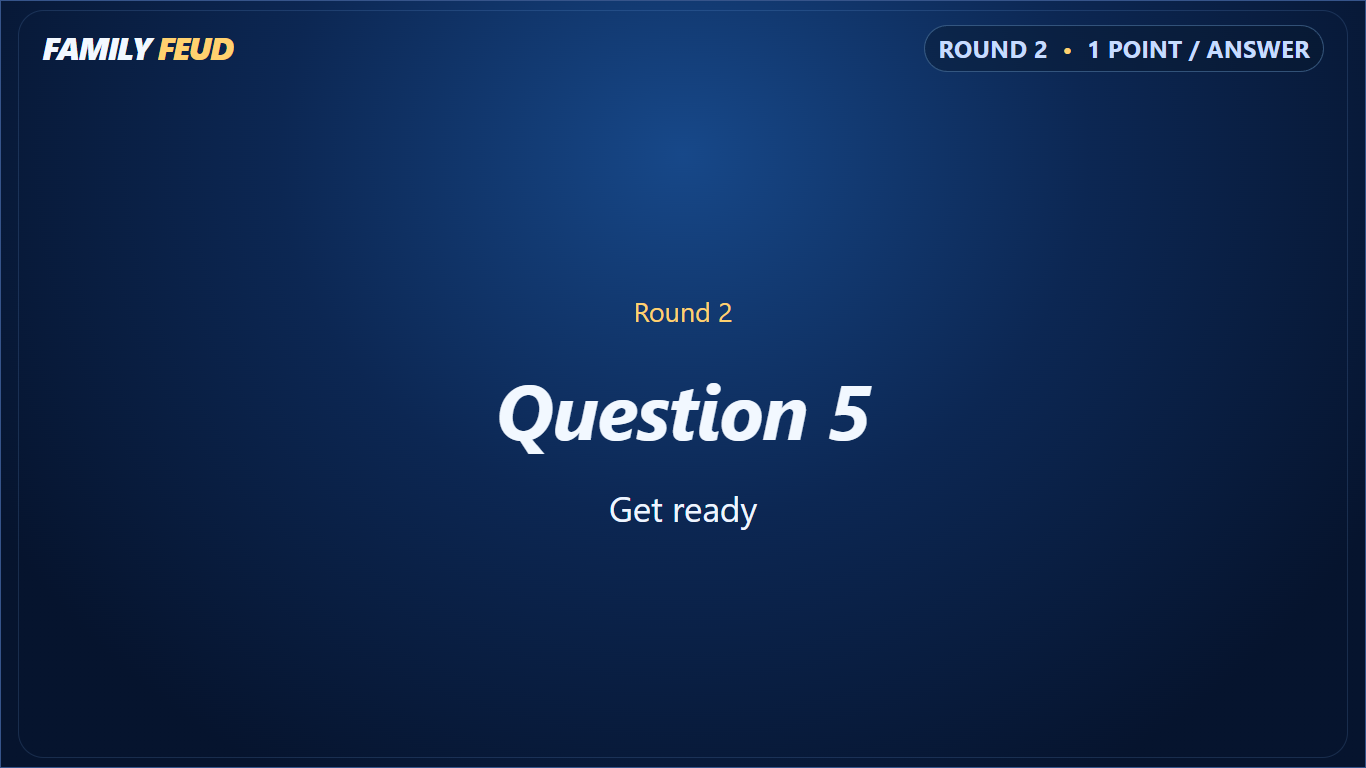
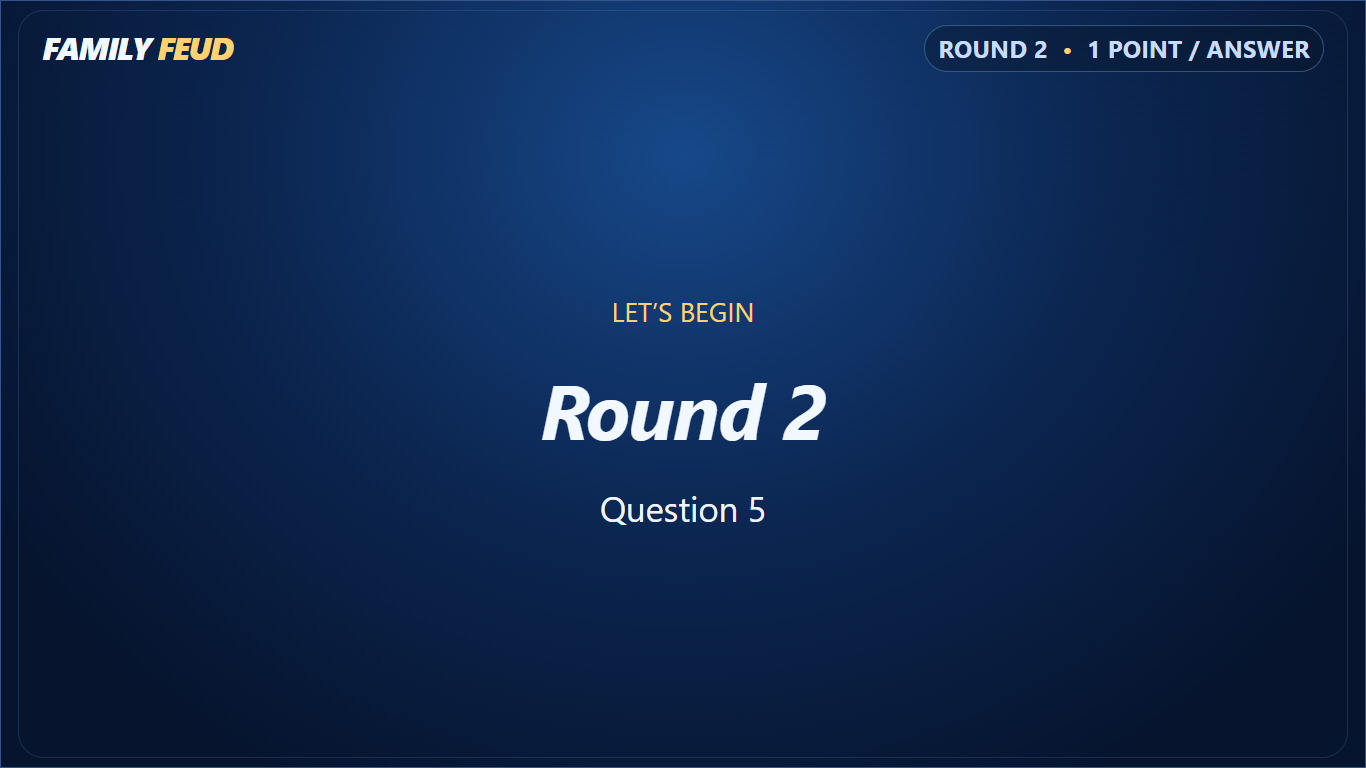
Keep finale strike controls reachable and add named round transitions

Changed region(s): [[0.3382, 0.5, 0.6457, 0.5938], [0.4612, 0.375, 0.5534, 0.4375], [0.4305, 0.625, 0.5534, 0.6875]]

diff --git a/src/Presenter.tsx b/src/Presenter.tsx
@@ -17,15 +17,16 @@ export function Presenter({session,now}:{session:Session;now:number}){
   const startFinale=(teamIndex=0,questionIndex=0)=>{const sheet=scoreSheet();const lineup=finalistIds(session,sheet);const team=sheet.teams.find(t=>t.id===lineup[teamIndex]);if(!team){showStandings('final');return;}setFinaleOpen(true);dispatch({type:'finalists',sheetId:sheet.id,teamIds:lineup});if(!sheet.liveFinale)for(const t of sheet.teams)dispatch({type:'finalePoints',sheetId:sheet.id,teamId:t.id,teamName:t.name,points:t.bonus??0});saveJSON('feud.scores.draft.v1',{...sheet,liveFinale:true});dispatch({type:'prepareFinale',sheetId:sheet.id,teamId:team.id,teamName:team.name,questionId:finaleQuestions[questionIndex%finaleQuestions.length].id});};
   const nextShow=()=>{if(!turn&&session.roundCard){dispatch({type:'roundCard'});return;}if(turn){const sheet=scoreSheet();const lineup=finalistIds(session,sheet);const index=lineup.indexOf(turn.teamId);if(turn.status!=='ended')dispatch({type:'collect'});startFinale(index+1,finaleQuestions.findIndex(q=>q.id===turn.questionId)+1);}else if(session.index===Math.ceil(list.length/2)-1)showStandings('halfway');else if(session.index===list.length-1)showStandings('beforeFinale');else dispatch({type:'navigate',delta:1});};
   const continueShow=()=>{const stage=session.scoreShow?.stage;dispatch({type:'closeScores'});if(stage==='halfway')dispatch({type:'jump',index:Math.ceil(list.length/2)});else if(stage==='beforeFinale')startFinale();};
-  return <main className="presenter"><div className="page-heading"><div><h1>Host desk</h1><p>{session.game.title} <span className="save-state">· Progress saved on this browser</span></p></div><div className="heading-actions"><span className={`connection ${audienceConnected()?'connected':''}`}>{audienceConnected()?'Display connected':'Display not connected'}</span><button className="primary" onClick={()=>window.open('#/display','feud-audience','popup,width=1280,height=720')}>Open Audience Display ↗</button><button onClick={()=>{location.hash='/scores';}}>Score entry / teams</button><button onClick={()=>dispatch({type:"opening",screen:"logo"})}>Start show / opening logo</button><button onClick={()=>setFinaleOpen(true)}>Timed finale</button><button onClick={()=>setHelp(true)}>Two-screen help</button></div></div>
+  return <main className={`presenter ${turn?"has-finale-controls":""}`}><div className="page-heading"><div><h1>Host desk</h1><p>{session.game.title} <span className="save-state">· Progress saved on this browser</span></p></div><div className="heading-actions"><span className={`connection ${audienceConnected()?'connected':''}`}>{audienceConnected()?'Display connected':'Display not connected'}</span><button className="primary" onClick={()=>window.open('#/display','feud-audience','popup,width=1280,height=720')}>Open Audience Display ↗</button><button onClick={()=>{location.hash='/scores';}}>Score entry / teams</button><button onClick={()=>dispatch({type:"opening",screen:"logo"})}>Start show / opening logo</button><button onClick={()=>setFinaleOpen(true)}>Timed finale</button><button onClick={()=>setHelp(true)}>Two-screen help</button></div></div>
     {session.opening&&<section className="panel opening-controls"><div><p className="eyebrow">OPENING THE SHOW</p><h2>{session.opening==="logo"?"Welcome screen is on the TV":"Instructions are on the TV"}</h2><p>Set up your teams and sound while the audience sees the welcome screen.</p></div><div className="button-row"><button onClick={()=>dispatch({type:"opening",screen:"logo"})}>1 · Welcome logo</button><button className={session.opening==="logo"?"primary":""} onClick={()=>dispatch({type:"opening",screen:"instructions"})}>2 · Show brief instructions</button><button className={session.opening==="instructions"?"primary":""} onClick={()=>dispatch({type:"opening",screen:null})}>3 · Begin questions</button></div></section>}
     {session.scoreShow&&!session.sequenceShow&&<div className="panel score-live-bar"><b>Score reveal is on the TV. Gameplay is paused.</b><button onClick={()=>dispatch({type:'revealScore',delta:1})}>Reveal next team ↑</button><button className="gold" onClick={()=>dispatch({type:'closeScores'})}>Close scores · return to game</button></div>}
     <div className="host-grid"><section className="panel question-panel">{session.scoreShow&&session.sequenceShow?<div className="sequence-scores"><p className="eyebrow">SHOW SEQUENCE</p><h2>{session.scoreShow.stage==='halfway'?'Halfway standings':session.scoreShow.stage==='beforeFinale'?'Written rounds complete':'Final results'}</h2><p>{session.scoreShow.revealed} of {session.scoreShow.teams.length} teams revealed · lowest score first</p><div className="button-row"><button className="primary" onClick={()=>dispatch({type:'revealScore',delta:1})} disabled={session.scoreShow.revealed===session.scoreShow.teams.length}>Reveal next team ↑</button><button onClick={()=>dispatch({type:'revealScore',delta:session.scoreShow!.teams.length})}>Reveal all teams</button><button onClick={()=>dispatch({type:'revealScore',delta:-1})} disabled={!session.scoreShow.revealed}>Undo reveal</button></div><ScoreRevealDisplay show={session.scoreShow}/>{session.scoreShow.stage==='beforeFinale'&&<FinalistPicker session={session} sheet={withFinale(readJSON<ScoreSheet>('feud.scores.draft.v1',newSheet(session)),session)}/>}<div className="button-row">{session.scoreShow.stage!=='final'?<button className="primary" disabled={session.scoreShow.stage==='beforeFinale'&&!finalistIds(session,readJSON<ScoreSheet>('feud.scores.draft.v1',newSheet(session))).length} onClick={continueShow}>{session.scoreShow.stage==='halfway'?`Continue to question ${Math.ceil(list.length/2)+1} →`:'Continue to finale →'}</button>:<button onClick={()=>{location.hash='/scores';}}>Save final result</button>}<button onClick={()=>dispatch({type:'closeScores'})}>Back to game</button></div></div>:<><div className="section-top"><span className="eyebrow">{turn?`TIMED FINALE · ${turn.teamName}`:`${round.name} · QUESTION ${session.index+1} OF ${list.length}`}</span><span className="pill">{question.bonus?'BONUS · ':''}{question.points} point{question.points!==1?'s':''} each</span></div><FinaleSetup session={session} expanded={finaleOpen}/><h2>{question.text}</h2><p className="subtle">{turn?'Read aloud, then judge each spoken answer. Reveals do not award points. Enter your final grade below or in Score entry.':'All teams write answers. Grade their sheets in Score entry, then reveal in any order.'}</p>{!turn&&!session.opening&&<div className="question-stage"><button className={session.roundCard?"primary":""} onClick={()=>dispatch({type:"roundCard"})}>{session.roundCard?"Show question":"Show title card"}</button><span>{session.roundCard?"Title card on TV · timer starts when the question opens":"Question on TV"}</span>{session.index===list.length-1&&<button onClick={()=>showStandings("beforeFinale")}>Go to finale →</button>}</div>}<div className="host-answers">{question.answers.map((a,i)=>{const visible=p?.revealed.includes(a.id);return <div className={`host-answer ${visible?'is-revealed':''}`} key={a.id}><button aria-label={`Reveal answer ${i+1}`} disabled={visible||locked} onClick={()=>dispatch({type:'reveal',id:a.id})}><kbd>{i+1}</kbd><strong>{a.text}</strong><span>{a.count}</span><small>{visible?'REVEALED':'REVEAL'}</small></button>{visible&&!turn&&<button className="hide-answer" aria-label={`Hide answer ${i+1}`} onClick={()=>dispatch({type:'hide',id:a.id})}>Hide</button>}</div>;})}</div><div className="button-row"><button disabled={!!turn&&turn.status!=='ended'||!!session.scoreShow} onClick={()=>dispatch({type:'revealAll'})}>{turn?'Show remaining answers':'Reveal all'}</button>{!turn&&<><button onClick={()=>dispatch({type:'hideAll'})}>Hide all</button><button onClick={()=>dispatch({type:'resetQuestion'})}>Reset question</button></>}<button className="gold" disabled={!session.history.length} onClick={()=>dispatch({type:'undo'})}>↶ Undo</button></div><p className="micro">{turn?'Undo reverses mistakes, including a turn ending. Reset or select another board to retry; your entered grade stays until you change it.':'Survey counts are for the board; score the written answers using the points shown above.'}</p>{!turn&&<div className="question-nav"><button disabled={!session.index} onClick={()=>dispatch({type:'navigate',delta:-1})}>← Previous</button><select aria-label="Current question" value={session.index} onChange={e=>dispatch({type:'jump',index:Number(e.target.value)})}>{list.map((x,i)=><option key={x.question.id} value={i}>{x.round.name} · {x.question.text}</option>)}</select><button className="primary" data-next-show onClick={nextShow}>Next →</button></div>}{turn&&<div className="button-row"><button className="primary" data-next-show onClick={nextShow}>Next team →</button><button onClick={()=>showStandings("final")}>Final scores →</button><button disabled={!!session.scoreShow} onClick={()=>dispatch({type:'resetFinale'})}>Reset this turn · 60 seconds</button><label>Team’s finale points<input aria-label="Finale points" type="number" min="0" max="24" step="1" value={session.finaleResults?.[`${turn.sheetId}:${turn.teamId}`]?.points??0} onChange={e=>dispatch({type:'finalePoints',sheetId:turn.sheetId,teamId:turn.teamId,teamName:turn.teamName,points:Number(e.target.value)})}/></label></div>}{turn&&<p className="finale-status" role="status">{turn.status==='ended'?`${turn.reason} · ${session.finaleResults?.[`${turn.sheetId}:${turn.teamId}`]?.points??0} points entered`:turn.status==='ready'?'Ready · question stays hidden on TV until you start':'Turn in progress'}</p>}</>}</section>
     <aside className={`host-side ${session.sequenceShow?"sequence-hidden":""}`}><section className="panel timer-panel"><div className="section-top"><span className="eyebrow">{turn?'60-SECOND FINALE':'WRITING & HAND-IN TIME'}</span><label className="check"><input type="checkbox" checked={session.hideTimer} onChange={e=>dispatch({type:'settings',hideTimer:e.target.checked})}/>Hide until started</label></div><div className={`host-clock ${left<=(turn?5:30)?'warning':''}`}>{clockText(left)}<span>{left===0&&session.timer.started?'TIME’S UP':'minutes : seconds'}</span></div><div className="button-row"><button className="primary" disabled={turn?.status==='ended'||!!session.scoreShow||!!session.opening||(!turn&&session.roundCard)} onClick={()=>dispatch({type:'toggleTimer'})}>{session.timer.end&&left>0?'Pause timer':turn?.status==='ready'?'Start 60-second turn':'Start / resume'}</button>{!turn&&<button onClick={()=>dispatch({type:'resetTimer'})}>Reset</button>}<button disabled={turn?.status==='ended'||!!session.scoreShow} onClick={()=>dispatch({type:'collect'})}>{turn?'End turn':'All sheets in · end early'}</button></div>{!turn&&<><div className="duration-row">{[180,240,300].map(n=><button key={n} className={session.timer.duration===n?'selected':''} onClick={()=>{setDuration(String(n));dispatch({type:'duration',seconds:n});}}>{n/60} min</button>)}<input aria-label="Custom seconds" type="number" min="1" max="3600" value={duration} onChange={e=>setDuration(e.target.value)}/><button onClick={()=>dispatch({type:'duration',seconds:Number(duration)})}>Set</button></div><div className="button-row"><button className="gold" onClick={()=>dispatch({type:'extend'})}>+30 seconds</button><span>{session.extensions??0} extensions this question</span></div><p className="micro">Default: 3 min for 1–3 answers, 4 min for 4–6, 5 min for 7+. End early whenever everyone is ready.</p></>}</section>
-    {turn&&<section className="panel"><div className="section-top"><span className="eyebrow">FINAL BONUS STRIKES</span><span className="host-strikes">{[0,1,2].map(i=><b className={i<(p?.strikes??0)?'on':''} key={i}>✕</b>)}</span></div><button className="danger" disabled={locked} onClick={()=>dispatch({type:'strike',delta:1})}>✕ Wrong answer</button><p className="micro">Three wrong answers end the turn. Use Undo to correct a mistake.</p></section>}
+
     </aside>
     <details className="panel preview-panel"><summary>Audience preview</summary><div className="section-top"><span className="eyebrow">AUDIENCE PREVIEW</span>{question.answers.length>8&&<div className="button-row">{Array.from({length:Math.ceil(question.answers.length/8)},(_,i)=><button key={i} onClick={()=>dispatch({type:'boardPage',page:i})}>Answers {i*8+1}–{Math.min((i+1)*8,question.answers.length)}</button>)}</div>}{!turn&&<button onClick={()=>dispatch({type:'roundCard'})}>{session.roundCard?'Show question':'Show round title'}</button>}</div>{session.scoreShow?<ScoreRevealDisplay show={session.scoreShow}/>:session.opening?<OpeningScreen screen={session.opening} game={session.game}/>:<Board session={session} now={now} preview/>}</details>
     <details className="panel settings-panel"><summary>Sound & settings</summary><div className="button-row"><label className="check"><input type="checkbox" checked={session.muted} onChange={e=>dispatch({type:'settings',muted:e.target.checked})}/>Mute sounds</label><label>Answer & score reveal sound<select aria-label="Answer & score reveal sound" value={session.revealSound??"chime"} onChange={e=>dispatch({type:"settings",revealSound:e.target.value as "chime"|"silent"})}><option value="chime">Soft bing</option><option value="silent">Silent</option></select></label><label className="check"><input type="checkbox" checked={session.countdownSound!==false} onChange={e=>dispatch({type:"settings",countdownSound:e.target.checked})}/>Quiet final 10-second ticks</label><label>Volume <input aria-label="Sound volume" type="range" min="0" max="1" step=".05" value={session.volume} onChange={e=>dispatch({type:'settings',volume:Number(e.target.value)})}/></label><button onClick={fullscreen}>Fullscreen</button></div><details><summary>Session & saved games</summary><p>Editor changes are saved separately. Start a new session to use them.</p><select aria-label="Game for new session" value={gameId} onFocus={()=>setLibrary(games())} onChange={e=>setGameId(e.target.value)}>{library.map(g=><option key={g.id} value={g.id}>{g.title}</option>)}</select><button className="danger" onClick={()=>{const game=games().find(g=>g.id===gameId);if(game&&confirm('Start a new session? Live progress and timed bonus points will reset. Save your result first.'))dispatch({type:'new',game:{...game,timer:game.timer===20?240:game.timer}});}}>Start New Session</button></details><div className="shortcuts"><h4>Keyboard shortcuts</h4><p><kbd>1–8</kbd> Reveal <kbd>T</kbd> Start / pause <kbd>R</kbd> Reset regular timer <kbd>+</kbd> Add 30 sec</p><p><kbd>X</kbd> Finale strike <kbd>U</kbd> Undo <kbd>← / →</kbd> Written question <kbd>F</kbd> Fullscreen</p><p className="micro">Scores on TV: Space = next team, Escape = return to game. Click the audience board once to enable audio.</p></div></details></div>
+    {turn&&!session.scoreShow&&!session.opening&&<div className="finale-strike-controls" aria-label="Finale strike controls"><span className="host-strikes" aria-label={`${p?.strikes??0} of 3 strikes`}>{[0,1,2].map(i=><b className={i<(p?.strikes??0)?'on':''} key={i}>✕</b>)}</span><button className="danger" disabled={locked} onClick={()=>dispatch({type:'strike',delta:1})}>✕ Wrong answer</button><small>Keyboard: X</small></div>}
     {help&&<div className="overlay" onClick={()=>setHelp(false)}><section className="modal" role="dialog" aria-modal="true" aria-label="Two-screen help" onClick={e=>e.stopPropagation()}><button className="close" autoFocus onClick={()=>setHelp(false)}>Close ✕</button><h2>Your laptop. Their big screen.</h2><ol><li>Connect the TV. Press Windows + P and choose <b>Extend</b>.</li><li>Keep Presenter on your laptop. Open Audience Display once and drag it onto the TV.</li><li>Click the board for sound. Double-click or press F for fullscreen.</li><li>Use Score entry on your laptop. Show scores on TV replaces the board in that same audience window.</li><li>Close scores to resume the board and its timer. No moving windows again.</li></ol><p>Both windows need the same browser profile and address. Browser saves do not transfer through GitHub: export your game and dated results to move those files.</p></section></div>}
   </main>;
 }

diff --git a/src/Board.tsx b/src/Board.tsx
@@ -1,10 +1,10 @@
 import { current, secondsLeft, clockText, type Session } from './engine';
 export function Board({session,now,preview=false}:{session:Session;now:number;preview?:boolean}){
   const {round,question}=current(session);const progress=session.progress[question.id];const left=Math.ceil(secondsLeft(session.timer,now));
-  const offset=(session.boardPage??0)*8;const answers=question.answers.slice(offset,offset+8);const turn=session.finale;const ready=turn?.status==='ready';const points=turn?session.finaleResults?.[`${turn.sheetId}:${turn.teamId}`]?.points??0:0;
+  const offset=(session.boardPage??0)*8;const answers=question.answers.slice(offset,offset+8);const turn=session.finale;const ready=turn?.status==='ready';const firstInRound=round.questions[0]?.id===question.id;const points=turn?session.finaleResults?.[`${turn.sheetId}:${turn.teamId}`]?.points??0:0;
   return <div className={`board ${preview?'preview':''}`} data-testid="board">
     <div className="board-top"><span className="brand">FAMILY <b>FEUD</b><small>GAME NIGHT</small></span><span className="round-tag">{round.name} <i>•</i> {question.bonus?'BONUS · ':''}{question.points} {question.points===1?'POINT':'POINTS'} / ANSWER</span></div>
-    {ready?<div className="round-card"><p>60 SECONDS · SIX ANSWERS · THREE STRIKES</p><h1>{turn.teamName}</h1><span>Get ready! Four points per correct answer.</span></div>:session.roundCard?<div className="round-card" data-testid="question-title-card"><p>{round.name}</p><h1>Question {session.index+1}</h1><span>{question.bonus?'Bonus question':'Get ready'}</span></div>:<><header className="question"><p>{question.answers.length} answers on the board</p><h1>{question.text}</h1></header>
+    {ready?<div className="round-card"><p>60 SECONDS · SIX ANSWERS · THREE STRIKES</p><h1>{turn.teamName}</h1><span>Get ready! Four points per correct answer.</span></div>:session.roundCard?<div className="round-card" data-testid="question-title-card"><p>{firstInRound?"LET’S BEGIN":round.name}</p><h1>{firstInRound?round.name:`Question ${session.index+1}`}</h1><span>{firstInRound?`Question ${session.index+1}`:question.bonus?"Bonus question":"Get ready"}</span></div>:<><header className="question"><p>{question.answers.length} answers on the board</p><h1>{question.text}</h1></header>
     <div className="answer-grid" style={{gridTemplateRows:`repeat(${Math.ceil(answers.length/2)},minmax(0,1fr))`}}>
       {answers.map((a,j)=>{const i=j+offset;const revealed=progress?.revealed.includes(a.id);return <div key={a.id} className={`answer-tile ${revealed?'revealed':''}`} data-testid={`slot-${i+1}`}><span className="rank">{i+1}</span>{revealed?<><strong>{a.text}</strong><span className="count">{a.count}</span></>:<span className="concealed" aria-label={`Answer ${i+1} hidden`}>•••</span>}</div>;})}
     </div></>}

diff --git a/src/styles.css b/src/styles.css
@@ -106,3 +106,7 @@
 @media(min-width:1101px){.sequence-scores .score-show-board{max-width:420px}.sequence-scores .finalist-picker .micro{font-size:11px}}
 .integrated-finale>.finalist-picker{grid-column:1/-1;margin:0;padding:6px;grid-row:auto}.integrated-finale>label{grid-row:2}.integrated-finale>button.primary{grid-row:2}.integrated-finale>.button-row{grid-row:3}.integrated-finale>button:last-child{grid-row:3}.integrated-finale>.finale-reference{grid-row:4}
 @media(min-width:1101px){.presenter .question-panel h2{font-size:20px;line-height:1.25}.presenter .host-answer>button:first-child{min-height:44px}.presenter .finale-status{padding:6px}.integrated-finale{padding:6px 0}}
+/* Keep the live wrong-answer control reachable even while the host scrolls. */
+.finale-strike-controls{position:fixed;right:24px;bottom:18px;z-index:35;display:flex;align-items:center;gap:14px;padding:12px 16px;border:1px solid #a76572;border-radius:12px;background:#152238;box-shadow:0 5px 24px #0008}
+.finale-strike-controls button{min-height:48px;padding:10px 20px;font-size:17px}.finale-strike-controls small{font-size:12px;color:#bdcde3}.presenter.has-finale-controls{padding-bottom:110px}
+@media(max-width:720px){.finale-strike-controls{left:12px;right:12px;bottom:12px;justify-content:space-between;gap:10px;padding:10px}.finale-strike-controls small{display:none}.finale-strike-controls button{flex:1}.finale-strike-controls .host-strikes{white-space:nowrap}}

diff --git a/TEST-REPORT.md b/TEST-REPORT.md
@@ -75,3 +75,5 @@ The opening format screen and enlarged audience board were visually inspected. S
 `scripts/show-flow-test.mjs` verifies title-card privacy, automatic timer start on Show question, halfway progression after Q8, pre-finale progression after Q15, selected team turns and automatic final standings. Main written and finale controls fit 1366×768. The original Q16 becomes a six-answer finale option. Old 16-question score drafts retain a backup with their original scores. A twenty-team event is limited to five selected finalists; the host controls tie decisions. Unit tests enforce the five-team selection cap and cover persisted lineup undo.
 
 The scorebook, editor, result imports/exports and private leaderboard retain all teams, with no ten-team limit. Audience standings show only the top ten and label the full event team count. The finale remains capped at five selected teams. Twenty-team totals and JSON validation are tested.
+
+Finale X reachability verified at 1366×768, 1024×768 and 390×844, both at the top and bottom of the page; clicking records a strike. The show-flow check verifies named round transitions and automatic timer start.

diff --git a/README.md b/README.md
@@ -142,3 +142,5 @@ Written play supports any number of teams (at least two); the finale has **at mo
 Core controls fit a 1366×768 host screen. Audience preview and sound settings expand on demand. Existing live 16-question score drafts are archived under Saved results before conversion to 15 written columns; saved historical results remain unchanged.
 
 The scorebook, editor, result imports/exports and private leaderboard retain all teams, with no ten-team limit. Audience standings show only the top ten and label the full event team count. The finale remains capped at five selected teams. Twenty-team totals and JSON validation are tested.
+
+During the finale, the wrong-answer X stays pinned at the bottom of the presenter screen while scrolling; keyboard X also works. At each round’s first question, the audience transition prominently displays the round name. Other questions have numbered title cards. Opening the question starts the timer.
